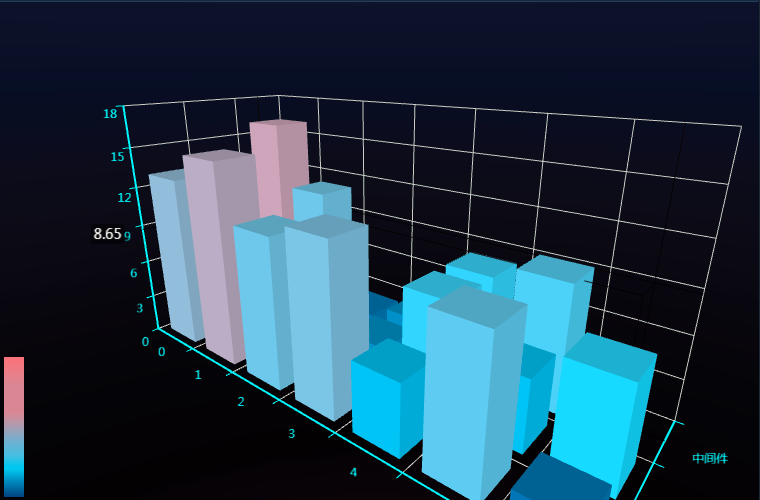
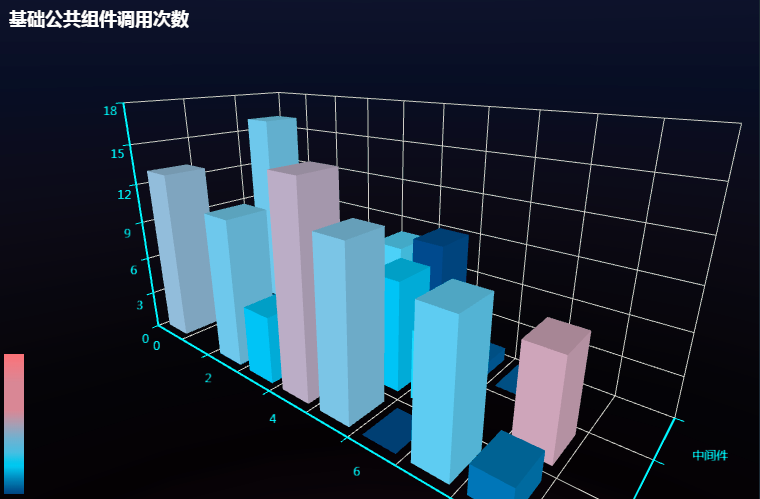
修复

diff --git a/app-creating-black.html b/app-creating-black.html
@@ -97,7 +97,8 @@
         }
         
         .app-info-dropdown .btn-default {
-            padding: 2px 10px;
+            padding: 2px 5px;
+            margin: 2px;
         }
         
         .add_minus .glyphicon {
@@ -122,6 +123,7 @@
         
         .progress {
             margin-bottom: 0 !important;
+            background: #1C2331;
         }
         /* #b32fwyunbsf1, */
         /* #c20aavfbbs2z {
@@ -175,6 +177,11 @@
         
         .progress {
             margin-top: 10px;
+        }
+        .btn-goujian{
+            color: #fff;
+            background-color: #4A90E2;
+            border-color: #4A90E2;
         }
     </style>
 </head>
@@ -243,7 +250,7 @@
                         <span class="loading-icon fa fa-spin fa-spinner"></span>
 
                         <div class="dropdown app-info-dropdown">
-                            <button class="btn btn-default dropdown-toggle" type="button" data-toggle="dropdown" aria-haspopup="true" aria-expanded="true">
+                            <button class="btn btn-goujian dropdown-toggle" type="button" data-toggle="dropdown" aria-haspopup="true" aria-expanded="true">
                         操作
                         <span class="caret"></span>
                     </button>
@@ -274,7 +281,7 @@
                     </td>
                     <td>
                         <div class="dropdown app-info-dropdown">
-                            <button class="btn btn-default dropdown-toggle" type="button" data-toggle="dropdown" aria-haspopup="true" aria-expanded="true">
+                            <button class="btn btn-goujian dropdown-toggle" type="button" data-toggle="dropdown" aria-haspopup="true" aria-expanded="true">
                         操作
                         <span class="caret"></span>
                     </button>
@@ -325,7 +332,7 @@
                     <td>catalina.sh run</td>
                     <td>
                         <div class="dropdown app-info-dropdown">
-                            <button class="btn btn-default dropdown-toggle" type="button" data-toggle="dropdown" aria-haspopup="true" aria-expanded="true">
+                            <button class="btn btn-goujian dropdown-toggle" type="button" data-toggle="dropdown" aria-haspopup="true" aria-expanded="true">
                         操作
                         <span class="caret"></span>
                     </button>
@@ -356,7 +363,7 @@
                     <td>catalina.sh run</td>
                     <td>
                         <div class="dropdown app-info-dropdown">
-                            <button class="btn btn-default dropdown-toggle" type="button" data-toggle="dropdown" aria-haspopup="true" aria-expanded="true">
+                            <button class="btn btn-goujian dropdown-toggle" type="button" data-toggle="dropdown" aria-haspopup="true" aria-expanded="true">
                         操作
                         <span class="caret"></span>
                     </button>
@@ -387,7 +394,7 @@
                     <td>service mysqld start</td>
                     <td>
                         <div class="dropdown app-info-dropdown">
-                            <button class="btn btn-default dropdown-toggle" type="button" data-toggle="dropdown" aria-haspopup="true" aria-expanded="true">
+                            <button class="btn btn-goujian dropdown-toggle" type="button" data-toggle="dropdown" aria-haspopup="true" aria-expanded="true">
                         操作
                         <span class="caret"></span>
                     </button>
@@ -418,7 +425,7 @@
                     <td>service mysqld start</td>
                     <td>
                         <div class="dropdown app-info-dropdown">
-                            <button class="btn btn-default dropdown-toggle" type="button" data-toggle="dropdown" aria-haspopup="true" aria-expanded="true">
+                            <button class="btn btn-goujian dropdown-toggle" type="button" data-toggle="dropdown" aria-haspopup="true" aria-expanded="true">
                         操作
                         <span class="caret"></span>
                     </button>
@@ -449,7 +456,7 @@
                     <td>service mysqld start</td>
                     <td>
                         <div class="dropdown app-info-dropdown">
-                            <button class="btn btn-default dropdown-toggle" type="button" data-toggle="dropdown" aria-haspopup="true" aria-expanded="true">
+                            <button class="btn btn-goujian dropdown-toggle" type="button" data-toggle="dropdown" aria-haspopup="true" aria-expanded="true">
                         操作
                         <span class="caret"></span>
                     </button>
@@ -584,7 +591,7 @@
                 '<td>catalina.sh run</td>' +
                 '<td>' +
                 '<div class="dropdown app-info-dropdown">' +
-                '<button class="btn btn-default dropdown-toggle" type="button" data-toggle="dropdown" aria-haspopup="true" aria-expanded="true">' +
+                '<button class="btn btn-goujian dropdown-toggle" type="button" data-toggle="dropdown" aria-haspopup="true" aria-expanded="true">' +
                 '操作' +
                 '<span class="caret"></span>' +
                 '</button>' +

diff --git a/ability-overview-black.html b/ability-overview-black.html
@@ -243,11 +243,17 @@
             color: #fff;
             margin-right: 20px;
         }
+        #barChart3{
+            background: #1C2331!important;
+        }
+        #barChart4{
+            background: #1C2331!important;
+        }
     </style>
 
 </head>
 
-<body style="height:100%;">
+<body style="height:100%;background: #12141B">
 
     <div class="left-nav-wrap">
         <script>
@@ -264,22 +270,22 @@
         <span class="breadcrumb-span">能力概览</span>
     </div>
 
-    <div style="padding: 0px;margin-left:200px;height:100%;background-color: #1C2331">
+    <div style="padding: 0px;margin-left:200px;height:100%;">
         <div style="padding:15px;width: 100%;height: calc(100% - 75px);">
              <div style="height: 50px;width: 760px;display: inline-block;">
                    <div class="con-info-vm">
                        <div id="box1">
                            <div class="info-box" id="" >
                                <span class="box-previous">数据库: </span>
-                               <span class="box-last one">68个</span>
+                               <span class="box-last one">68次</span>
                            </div>
                            <div class="info-box" id="">
                                <span class="box-previous">大数据: </span>
-                               <span class="box-last two">28个</span>
+                               <span class="box-last two">28次</span>
                            </div>
                            <div class="info-box" id="" style="margin-right: 0!important;">
                                <span class="box-previous">中间件: </span>
-                               <span class="box-last three">49个</span>
+                               <span class="box-last three">49次</span>
                            </div>
                        </div>
                        <div class="info-box" id="box2" style="display: none;">
@@ -307,50 +313,47 @@
       var myChart2 = echarts.init(document.getElementById('chart2'));
       var optionNum = 1;
       // 3D图的配置信息
-      var index = ['0','1', '2', '3', '4', '5', '6'];
+      var index = ['0','1', '2', '3', '4', '5', '6','7','8','9'];
       var category = ['数据库', '大数据', '中间件'];
       var data2 = [[0,0,5,'zookeper'],
         [0,0,13,'redis'],
-        [1,0,15,'mysql'],
+        [4,0,15,'mysql'],
         [2,0,11,'mongodb'],
-        [3,0,12,'oracle'],
-        [4,0,5,'memcache'],
-        [5,0,10,'dubbo'],
-        [6,0,2,'sping cloud'],
+        [5,0,12,'oracle'],
+        [2,0,0,''],
+        [3,0,5,'memcache'],
+        [6,0,0,''],
+        [7,0,10,'dubbo'],
+        [8,0,2,'sping cloud'],
 
         [0,1,2,'hive'],
         [1,1,1,'HDFS'],
         [2,1,2,'spark'],
-        [3,1,3,'MapReduce'],
-        [4,1,8,'Hadoop'],
-        [5,1,5,'Flume'],
-        [6,1,7,'Yarn'],
+        [3,1,,''],
+        [4,1,3,'MapReduce'],
+        [5,1,8,'Hadoop'],
+        [6,1,5,'Flume'],
+        [8,1,7,'Yarn'],
 
         [0,2,16,'tomcat'],
         [1,2,11,'zookeeper'],
         [2,2,2,'nginx'],
-        [3,2,3,'httpd'],
+        [3,2,3,'apache httpd'],
         [4,2,8,'BES'],
-        [5,2,9,'jdk']
+        [5,2,9,'jdk'],
+        [7,2,0,'0'],
+        [6,2,1,'weblogic'],
+        [8,2,1,'JBOSS']
       ];
       option2 = {
-        // backgroundImage: linear-gradient('-30deg, #181E2D 0%, #12285D 43%, #162E66 57%, #15346B 100%'),
-        /* backgroundColor:{
-           color: {
-             type: 'linear',
-             x: 0,
-             y: 0,
-             z: 0,
-             x2: 0,
-             y2: 1,
-             z2: 1,
-             colorStops: [{
-               offset: 0, color: '#181E2D'
-             }, {
-               offset: 1, color: '#15346B'
-             }]
-           }
-         },*/
+        title: {
+          text: '基础公共组件调用次数',
+          left:5,
+          top:5,
+          textStyle: {
+            color: '#fff'
+          }
+        },
         backgroundColor:'#12285D',
         tooltip:{
           padding:15,
@@ -739,6 +742,14 @@
 
       option = {
         title: {
+          text: '业务能力',
+          left:5,
+          top:5,
+          textStyle: {
+            color: '#fff'
+          }
+        },
+       /* title: {
           textStyle: {
             fontSize: 8,
             align: 'center'
@@ -746,7 +757,7 @@
           subtextStyle: {
             align: 'center'
           }
-        },
+        },*/
         grid: {
           left: '10%',
           right: '10%',

diff --git a/storage-black.html b/storage-black.html
@@ -79,6 +79,7 @@
       border-radius: 4px;
       border: 1px solid #1B3C6E;
     }
+
   </style>
 </head>
 <body>
@@ -98,9 +99,9 @@
     <span class="breadcrumb-span"><a href="storage-black.html">存储资源</a></span>
   </div>
   <!-- Nav tabs -->
-  <ul class="nav nav-tabs" role="tablist" style="padding: 15px 0 0 15px;">
+  <ul class="nav nav-tabs" role="tablist" style="padding: 15px 0 0 15px;border-color: #3D5B77;">
     <li class="active">
-      <a id="return-storage" href="#home" aria-controls="home" role="tab" data-toggle="tab">块存储</a>
+      <a id="return-storage" href="#home" aria-controls="home" role="tab" data-toggle="tab" style="border-color: #3D5B77;">块存储</a>
     </li>
     <li class="disabled">
       <a href="javascript:void(0)">对象存储</a>

diff --git a/store-black.html b/store-black.html
@@ -45,7 +45,7 @@
       list-style: none;
     }
     .app-list li {
-      width: 20%;
+      width: 23%;
       float: left;
       background: #1C2331;
       padding: 20px;
@@ -117,6 +117,7 @@
       margin-right: 15px;
       margin-bottom: 15px;
     }
+
   </style>
 </head>
 <body>
